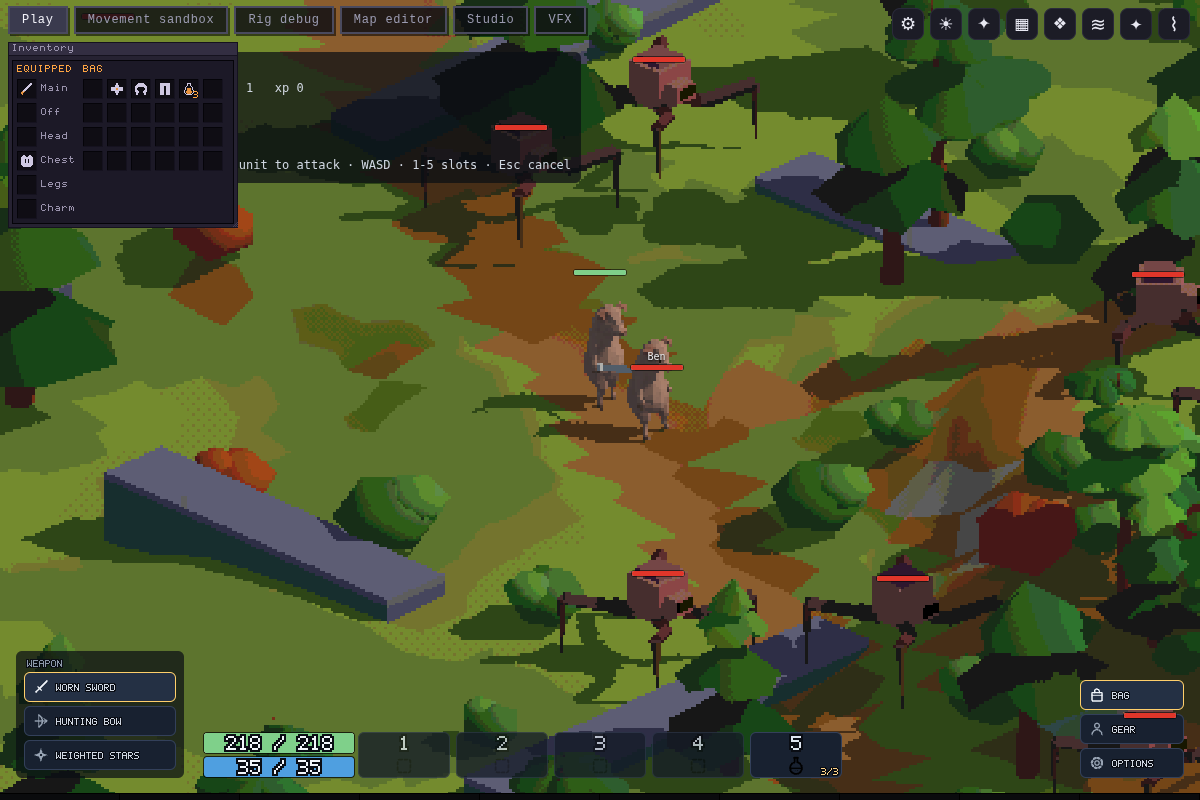
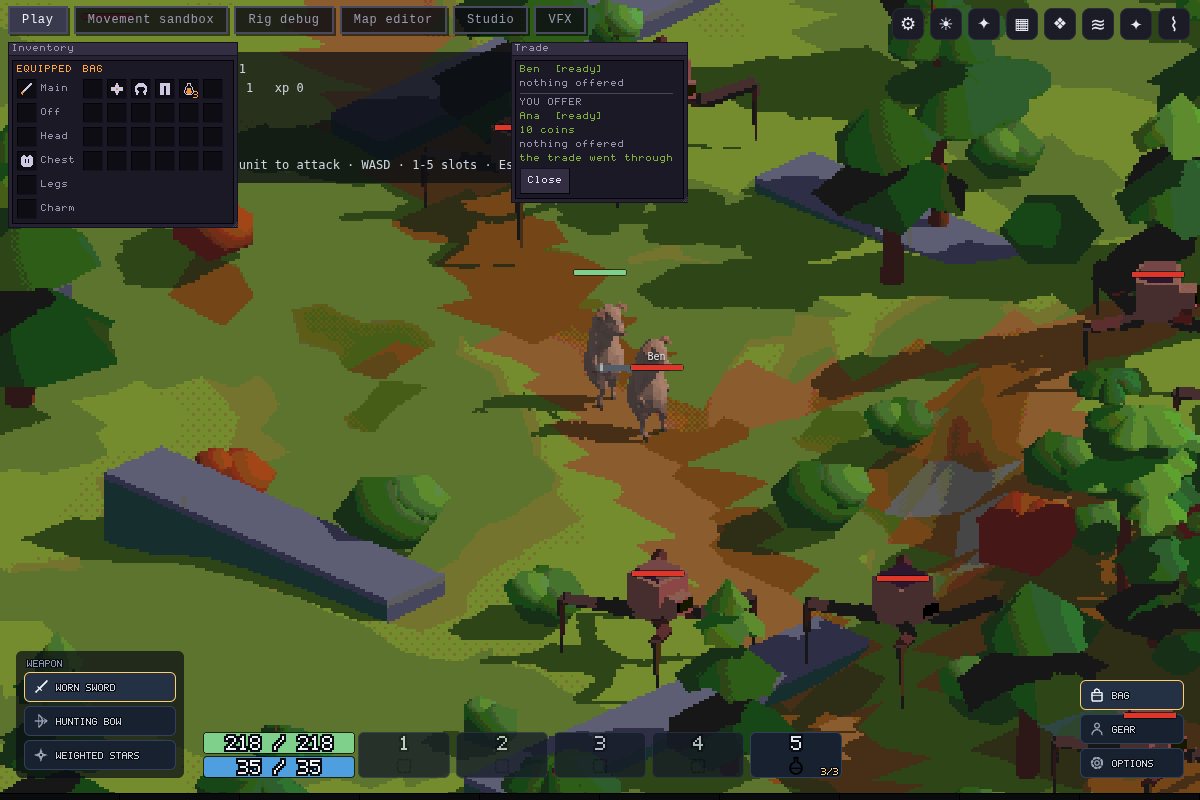
drive three trades between two tabs, and end each one differently
The probe now covers what a single tab still cannot see: a request that
arrives holding a bow and coins, answered from the other tab; a trade
shut with Escape, where the survivor is told and the player who left is
not shown the ending they caused; and a tab closed outright mid-trade.

Two things it learned by being wrong. An invite sweep has to start from
"no trade", or a tab already in one reports its first refused click as a
new invitation. And Escape closes the topmost window -- which is the
rule, and not the one under test -- so the bag is shut first rather than
the assertion being loosened to fit.

Claude-Session: https://claude.ai/code/session_01KKt1WpmrwghBoE7D2E5SiY

diff --git a/scripts/probe-trade.ts b/scripts/probe-trade.ts
@@ -123,6 +123,7 @@ interface Readout {
   readonly cells: string;
   readonly you: string;
   readonly them: string;
+  readonly invited: string;
 }
 
 async function readout(page: Page): Promise<Readout> {
@@ -137,6 +138,7 @@ async function readout(page: Page): Promise<Readout> {
       cells: host?.dataset['uiCellNames'] ?? '',
       you: host?.dataset['uiTradeYou'] ?? '',
       them: host?.dataset['uiTradeThem'] ?? '',
+      invited: host?.dataset['uiTradeInvited'] ?? '',
     };
   });
 }
@@ -246,6 +248,11 @@ function offers(line: string, name: string): boolean {
   return (line.split('|')[3] ?? '').includes(name);
 }
 
+/** How many coins a side's line says are on the table. */
+function coinsOf(line: string): number {
+  return Number(line.split('|')[2] ?? '0');
+}
+
 /** Whether a side's line says they have accepted. */
 function accepted(line: string): boolean {
   return (line.split('|')[1] ?? '') === 'yes';
@@ -258,6 +265,16 @@ async function refusals(page: Page): Promise<readonly string[]> {
       .map((el) => el.dataset['text'] ?? '')
       .filter((text) => text !== ''),
   );
+}
+
+/** Poll until the readout satisfies a predicate, or give up. */
+async function waitFor(page: Page, done: (state: Readout) => boolean, timeoutMs = 15_000): Promise<boolean> {
+  const deadline = Date.now() + timeoutMs;
+  while (Date.now() < deadline) {
+    if (done(await readout(page))) return true;
+    await page.waitForTimeout(150);
+  }
+  return false;
 }
 
 /** Poll until the named window is gone, or give up. */
@@ -341,6 +358,10 @@ async function inviteByPointer(page: Page, them: string): Promise<boolean> {
   }, them);
   if (!plate) return false;
 
+  // From nothing to something: without this, a sweep run while the tab is still
+  // in a trade returns true on its first click and reports an invitation that
+  // was refused as "you are already trading".
+  if ((await readout(page)).stage !== '') return false;
   for (let down = 0; down <= 90; down += 6) {
     await page.mouse.move(plate.x, plate.y + down);
     await page.keyboard.down('Shift');
@@ -408,30 +429,49 @@ async function main(): Promise<void> {
     check('Ben is asked, not enrolled', (await readout(ben)).stage === 'offered');
     check('the window opened itself on Ben', (await readout(ben)).windows.includes('trade'));
 
+    // --- the request is furnished before it is answered (spec 169) ----------
+    check('Ana is not asked to accept her own invitation', (await readout(ana)).invited === 'no');
+    check('Ben is the one being asked', (await readout(ben)).invited === 'yes');
+    // The sender gets no Accept and no Decline: they are the invitation's own
+    // buttons, and the server refuses both from this side.
+    const asking = await settleRects(ana);
+    check('the sender has no Accept', boxNamed(asking, 'accept') === null);
+    check('the sender has no Decline', boxNamed(asking, 'decline') === null);
+    check('the sender can still call it off', boxNamed(asking, 'cancel') !== null);
+    // ...and the invited side is a spectator until it has answered.
+    const asked = await settleRects(ben);
+    check('the invited side is offered Accept', boxNamed(asked, 'accept') !== null);
+    check('the invited side is offered Decline', boxNamed(asked, 'decline') !== null);
+    check('the invited side cannot edit the table', boxNamed(asked, 'bag:0') === null);
+
+    const slot = (await bagOf(ana)).indexOf(GOODS);
+    console.log(`Ana puts her ${GOODS} and some coins into the request (bag slot ${slot})`);
+    check(
+      `the ${GOODS} goes into the request`,
+      slot >= 0 && (await pressUntil(ana, `bag:${slot}`, (state) => offers(state.you, GOODS))),
+    );
+    check('coins go in beside it', await pressUntil(ana, 'addCoin', (state) => coinsOf(state.you) > 0));
+    check('it is still an invitation', (await readout(ana)).stage === 'offered');
+    // The whole point: Ben is looking at goods and coins before deciding, and
+    // reads them as items rather than as slot indices into a bag he cannot see.
+    check(
+      `Ben sees the ${GOODS} before answering`,
+      await pressUntil(ben, 'accept', (state) => offers(state.them, GOODS), 0),
+      (await readout(ben)).them,
+    );
+    check('...and the coins with it', coinsOf((await readout(ben)).them) > 0);
+
+    // The picture worth keeping: a request that arrived with something in it.
+    await ben.screenshot({ path: '.claude/screenshots/trade-request.png' });
+
     console.log('Ben accepts the invitation');
     check(
       'Ben accepting opens the table',
       await pressUntil(ben, 'accept', (state) => state.stage === 'open'),
     );
     await waitForStage(ana, 'open', 'Ana');
-    check('Ana is told the invitation was taken', true);
-
-    // --- the offer -----------------------------------------------------------
-    // The trade window lists your bag in its own grid; clicking a cell puts that
-    // stack on the table and re-sends the whole offer.
-    const slot = (await bagOf(ana)).indexOf(GOODS);
-    console.log(`Ana puts her ${GOODS} on the table (bag slot ${slot})`);
-    check(
-      `the ${GOODS} goes on the table`,
-      slot >= 0 && (await pressUntil(ana, `bag:${slot}`, (state) => offers(state.you, GOODS))),
-    );
-    // The other side is told what is on the table, resolved to items -- a bare
-    // slot index would mean nothing in Ben's bag.
-    check(
-      `Ben sees the ${GOODS} on Ana's side`,
-      await pressUntil(ben, 'accept', (state) => offers(state.them, GOODS), 0),
-      (await readout(ben)).them,
-    );
+    // The request survives being answered rather than being cleared by it.
+    check(`the ${GOODS} is still on the table`, offers((await readout(ana)).you, GOODS));
 
     // --- both accept ---------------------------------------------------------
     console.log('both accept');
@@ -449,6 +489,7 @@ async function main(): Promise<void> {
     await waitForStage(ana, 'over', 'Ana');
     check('the ending is drawn rather than the window vanishing', true);
     check('the window is still open on Ana', (await readout(ana)).windows.includes('trade'));
+    await ana.screenshot({ path: '.claude/screenshots/trade-ana.png' });
 
     await ana.waitForTimeout(800);
     const anaAfter = await bagOf(ana);
@@ -474,7 +515,8 @@ async function main(): Promise<void> {
 
     // --- putting the ending away --------------------------------------------
     console.log('Ana closes the ending');
-    check('the ending has exactly one button', await pressTrade(ana, 'cancel'));
+    check('the ending has exactly one button', boxNamed(await settleRects(ana), 'cancel') !== null);
+    check('closing it puts it away', await pressUntil(ana, 'cancel', (state) => state.stage === ''));
     // Waited for rather than snapshotted: this environment paints a real page at
     // a few frames a second under software GL.
     check('the window closed', await waitForWindowGone(ana, 'trade'));
@@ -487,16 +529,51 @@ async function main(): Promise<void> {
     check('and stays closed', !after.windows.split(',').includes('trade'), `windows: ${after.windows}`);
     check('with no trade left to show', after.stage === '', `stage: ${after.stage}`);
 
+    // --- Escape always gets you out (spec 169) -------------------------------
+    // A second trade, left live, and shut with the key rather than the button.
+    console.log('a second trade, closed with Escape');
+    check('a second trade can be opened', await inviteByPointer(ana, 'Ben'));
+    await waitForStage(ben, 'offered', 'Ben');
+    // Shut the bag first. Escape closes the *topmost* window -- that is the
+    // rule, and it is not the one being tested here -- and Ben has had his bag
+    // open since the counting at the top.
+    await ben.keyboard.press('KeyI');
+    await ben.waitForTimeout(500);
+    await ben.keyboard.press('Escape');
+    check('Escape shuts the window', await waitForWindowGone(ben, 'trade'));
+    // Leaving the table cancels it, so Ana is let go rather than left in a trade
+    // she cannot see and unable to start another. She keeps her window, because
+    // she did not close it and the ending is the thing she needs to be told.
+    check('the other side is told', await waitFor(ana, (state) => state.stage === 'over'));
+    check('...with a reason', (await readout(ana)).reason !== '', (await readout(ana)).reason);
+    // Ben closed his own window, so he is not shown the ending he caused.
+    check('the one who left is not shown it again', (await readout(ben)).stage === '');
+
+    check('Ana can close it', await pressUntil(ana, 'cancel', (state) => state.stage === ''));
+    check('and neither is in a trade', (await readout(ana)).stage === '' && (await readout(ben)).stage === '');
+
+    // --- a disconnect ends it and says so ------------------------------------
+    console.log('a third trade, ended by Ben closing his tab');
+    check('a third trade can be opened', await inviteByPointer(ana, 'Ben'));
+    await waitForStage(ben, 'offered', 'Ben');
+    await ben.context().close();
+    // The survivor is told, rather than left holding a window with an Accept in
+    // it for a trade with one player in it.
+    const told = await waitFor(ana, (state) => state.stage === 'over');
+    check('Ana is told the trade ended', told, `stage: ${(await readout(ana)).stage}`);
+    check('...and why', (await readout(ana)).reason !== '', `reason: ${(await readout(ana)).reason}`);
+    // Retried like every other press: the window is re-placed when the stage
+    // changes, so the rect under a close read a moment earlier may have moved.
+    check('and can close it', await pressUntil(ana, 'cancel', (state) => state.stage === ''));
+    check('the window is gone', await waitForWindowGone(ana, 'trade'));
+
     if (failures > 0) {
       // The server's own words for whatever it turned down. A press that missed
       // and a press that was refused look identical from the outside.
       console.log(`  [Ana] refusals: ${(await refusals(ana)).join(' | ')}`);
-      console.log(`  [Ben] refusals: ${(await refusals(ben)).join(' | ')}`);
     }
 
-    await ana.screenshot({ path: '.claude/screenshots/trade-ana.png' });
-    await ben.screenshot({ path: '.claude/screenshots/trade-ben.png' });
-    console.log('wrote .claude/screenshots/trade-{ana,ben}.png');
+    console.log('wrote .claude/screenshots/trade-{request,ana}.png');
   } catch (error) {
     console.error(`FAIL: ${error instanceof Error ? error.message : String(error)}`);
     failures += 1;

diff --git a/CLAUDE.md b/CLAUDE.md
@@ -783,7 +783,24 @@ src/server/      authoritative multiplayer server (specs 056-057, 062). Its sim 
                  bag that changed underneath refuses the whole trade instead of
                  trading whatever is in that slot now. The property test counts
                  both players together, because a swap that duplicated a sword
-                 leaves each bag individually plausible. data/ holds
+                 leaves each bag individually plausible.
+                 Two rules from spec 169, both about *which side of the table
+                 you are on*. `setOffer` accepts an offer from the **inviting
+                 side only** while a trade is still an invitation, and leaves
+                 the stage alone: an empty request asks "do you want to trade?"
+                 with no goods and no reason to say yes, but advancing on the
+                 first item would put the invitee at a table they never agreed
+                 to sit at and `respond` -- which only runs at `offered` --
+                 could then never fire. And `exchangeProblem` is `swap` minus
+                 the stage check, so the same arithmetic answers "would this go
+                 through" for a table nobody has accepted yet; the server runs
+                 it on every publish and sends a **per-player** warning that
+                 disables Accept. It names a *side* rather than describing one,
+                 because the single reason string `swap` returned went to both
+                 players and could only ever be true for one: the player whose
+                 own bag was the problem was told "their bag is full", after
+                 both had accepted, which is the one moment neither of them can
+                 do anything about it. data/ holds
                  the ABILITIES, SKILLS, ITEMS and MONSTERS tables (spec 062):
                  content is data, and an entity only ever stores an id.
                  `sim/aggro.ts` is whether one body has business with another
@@ -1324,7 +1341,16 @@ src/render/iso3d/world/ the Play tab (spec 063, spec 057's stage 3): the isometr
                  thing that could find either -- two tabs, two players, one
                  server, the real shift-right-click and the real buttons, with
                  both bags counted afterwards because a swap that duplicated the
-                 bow leaves each side individually plausible),
+                 bow leaves each side individually plausible.
+                 Since spec 169 **closing a live trade cancels it**, because
+                 leaving the table is what closing means and the alternative is
+                 a player sitting in a trade they cannot see and cannot start
+                 another one from -- before it the mount re-opened the window
+                 every frame a trade was live, so Escape and the title bar did
+                 nothing at all. What that needs is `tradeLeft`, and it is an
+                 **id rather than a flag**: the cancel takes a round trip, the
+                 trade stays live and replicated throughout it, and a flag was
+                 cleared by the very re-open it existed to prevent),
                  loot-drop.ts (how a drop looks while it is still withholding
                  itself, spec 158 -- the three.js half is `iso3d/drop-rig.ts`,
                  beside the other rigs, and this is everything it is told: the phase is a comparison against two ticks
